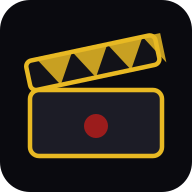
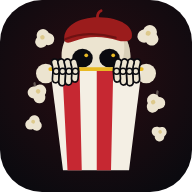
Icona nuova: il teschio col basco che sbircia dai popcorn
ciak.svg (favicon e sorgente) e badge.svg (la sagoma per le notifiche)
sono i disegni; scripts/icone.mjs (npm run icone) ne rifà le PNG con il
Chromium di Playwright: 192, 512, la maskable a tutto sfondo col disegno
nella zona sicura, e il badge da 96. I test controllano misure e bordi
(la maskable opaca negli angoli, le altre trasparenti), e il service
worker cambia cache: le icone non hanno l'impronta nel nome e, servite
cache-first, sarebbero rimaste quelle vecchie.

Claude-Session: https://claude.ai/code/session_014X3UNPBXN24jhVSmAHsqgM

diff --git a/src/lib/manifest.test.ts b/src/lib/manifest.test.ts
@@ -1,6 +1,7 @@
 import { describe, it, expect } from 'vitest'
-import { readFileSync } from 'node:fs'
+import { existsSync, readFileSync } from 'node:fs'
 import { resolve } from 'node:path'
+import { inflateSync } from 'node:zlib'
 
 // Il manifest decide come si comporta Ciak installata sulla schermata Home:
 // lì il browser non c'è più, e ciò che è scritto qui vale senza appello.
@@ -13,5 +14,57 @@ describe('manifest dell’app installata', () => {
     // indicazione vale quella del dispositivo, blocco della rotazione compreso;
     // "any" su Android girerebbe anche col blocco attivo.
     expect(manifest.orientation).toBeUndefined()
+  })
+})
+
+// Le icone sono PNG generate da public/ciak.svg e public/badge.svg con
+// `npm run icone`: qui si controlla che ci siano tutte, della misura dichiarata,
+// e che la forma dei bordi sia quella che ogni uso richiede.
+const pubblico = (nome: string) => resolve(__dirname, '../../public', nome.replace(/^\//, ''))
+
+// Misura e trasparenza dell'angolo in alto a sinistra, leggendo il PNG: il
+// primo pixel della prima riga arriva com'è qualunque sia il filtro, perché
+// non ha né vicini a sinistra né una riga sopra.
+function png(nome: string) {
+  const dati = readFileSync(pubblico(nome))
+  const larghezza = dati.readUInt32BE(16)
+  const altezza = dati.readUInt32BE(20)
+  const tipo = dati[25]
+  const pezzi: Buffer[] = []
+  for (let i = 8; i < dati.length; ) {
+    const lung = dati.readUInt32BE(i)
+    if (dati.toString('ascii', i + 4, i + 8) === 'IDAT') pezzi.push(dati.subarray(i + 8, i + 8 + lung))
+    i += 12 + lung
+  }
+  const righe = inflateSync(Buffer.concat(pezzi))
+  // Tipo 6 = RGBA (l'alfa è il quarto byte), tipo 2 = RGB (sempre opaco).
+  const alfaAngolo = tipo === 6 ? righe[1 + 3] : 255
+  return { larghezza, altezza, alfaAngolo }
+}
+
+describe('le icone', () => {
+  const icone = manifest.icons as { src: string; sizes: string; purpose: string }[]
+
+  it('ogni icona del manifest esiste ed è della misura dichiarata', () => {
+    for (const icona of icone) {
+      const [l, a] = icona.sizes.split('x').map(Number)
+      expect(png(icona.src), icona.src).toMatchObject({ larghezza: l, altezza: a })
+    }
+  })
+
+  it('la maskable arriva fino agli angoli: Android la ritaglia, e un angolo trasparente diventerebbe un buco', () => {
+    const maskable = icone.find((i) => i.purpose === 'maskable')
+    expect(maskable).toBeDefined()
+    expect(png(maskable!.src).alfaAngolo).toBe(255)
+  })
+
+  it('le altre hanno gli angoli arrotondati, trasparenti', () => {
+    for (const icona of icone.filter((i) => i.purpose === 'any')) expect(png(icona.src).alfaAngolo, icona.src).toBe(0)
+  })
+
+  it('ci sono anche la favicon, l’icona di iPhone e la sagoma per le notifiche', () => {
+    const indice = readFileSync(pubblico('index.html').replace('/public/', '/'), 'utf8')
+    for (const [, href] of indice.matchAll(/<link rel="(?:icon|apple-touch-icon)"[^>]*href="([^"]+)"/g)) expect(existsSync(pubblico(href)), href).toBe(true)
+    expect(png('badge-96.png')).toMatchObject({ larghezza: 96, altezza: 96, alfaAngolo: 0 })
   })
 })

diff --git a/src/lib/serviceWorker.test.ts b/src/lib/serviceWorker.test.ts
@@ -83,3 +83,16 @@ describe('service worker: il manifest dell’app installata', () => {
     expect(await caches.keys()).not.toContain('ciak-v3')
   })
 })
+
+describe('service worker: l’icona nuova', () => {
+  it('un worker nuovo butta la cache dove era rimasta l’icona vecchia', async () => {
+    // ciak.svg e le icone PNG non cambiano nome quando cambiano: servite dalla
+    // cache, il browser avrebbe mostrato il vecchio ciak per sempre.
+    const { gestori, caches } = avviaWorker()
+    await (await caches.open('ciak-v4')).put('/ciak.svg', new Response('<svg/>'))
+    const attese: Promise<unknown>[] = []
+    gestori.activate({ waitUntil: (p: Promise<unknown>) => attese.push(p) })
+    await Promise.all(attese)
+    expect(await caches.keys()).not.toContain('ciak-v4')
+  })
+})

diff --git a/public/sw.js b/public/sw.js
@@ -10,8 +10,10 @@
 //    sono dati che cambiano e richieste autenticate, non roba da cache muta.
 
 // Cambiare il nome butta la cache vecchia all'attivazione: v4 per il manifest
-// rimasto in v3 (vedi sotto, /manifest.webmanifest).
-const CACHE = 'ciak-v4'
+// rimasto in v3 (vedi sotto, /manifest.webmanifest); v5 per l'icona nuova (il
+// teschio col basco), perché ciak.svg e le PNG non hanno l'impronta nel nome e,
+// servite cache-first, sarebbero rimaste il ciak vecchio per sempre.
+const CACHE = 'ciak-v5'
 // I film salvati in Ciak per vederli offline. Una cache a parte, che
 // sopravvive ai deploy come quella delle immagini: ributtarla vorrebbe dire
 // perdere gigabyte a ogni aggiornamento dell'app. La legge la pagina.
